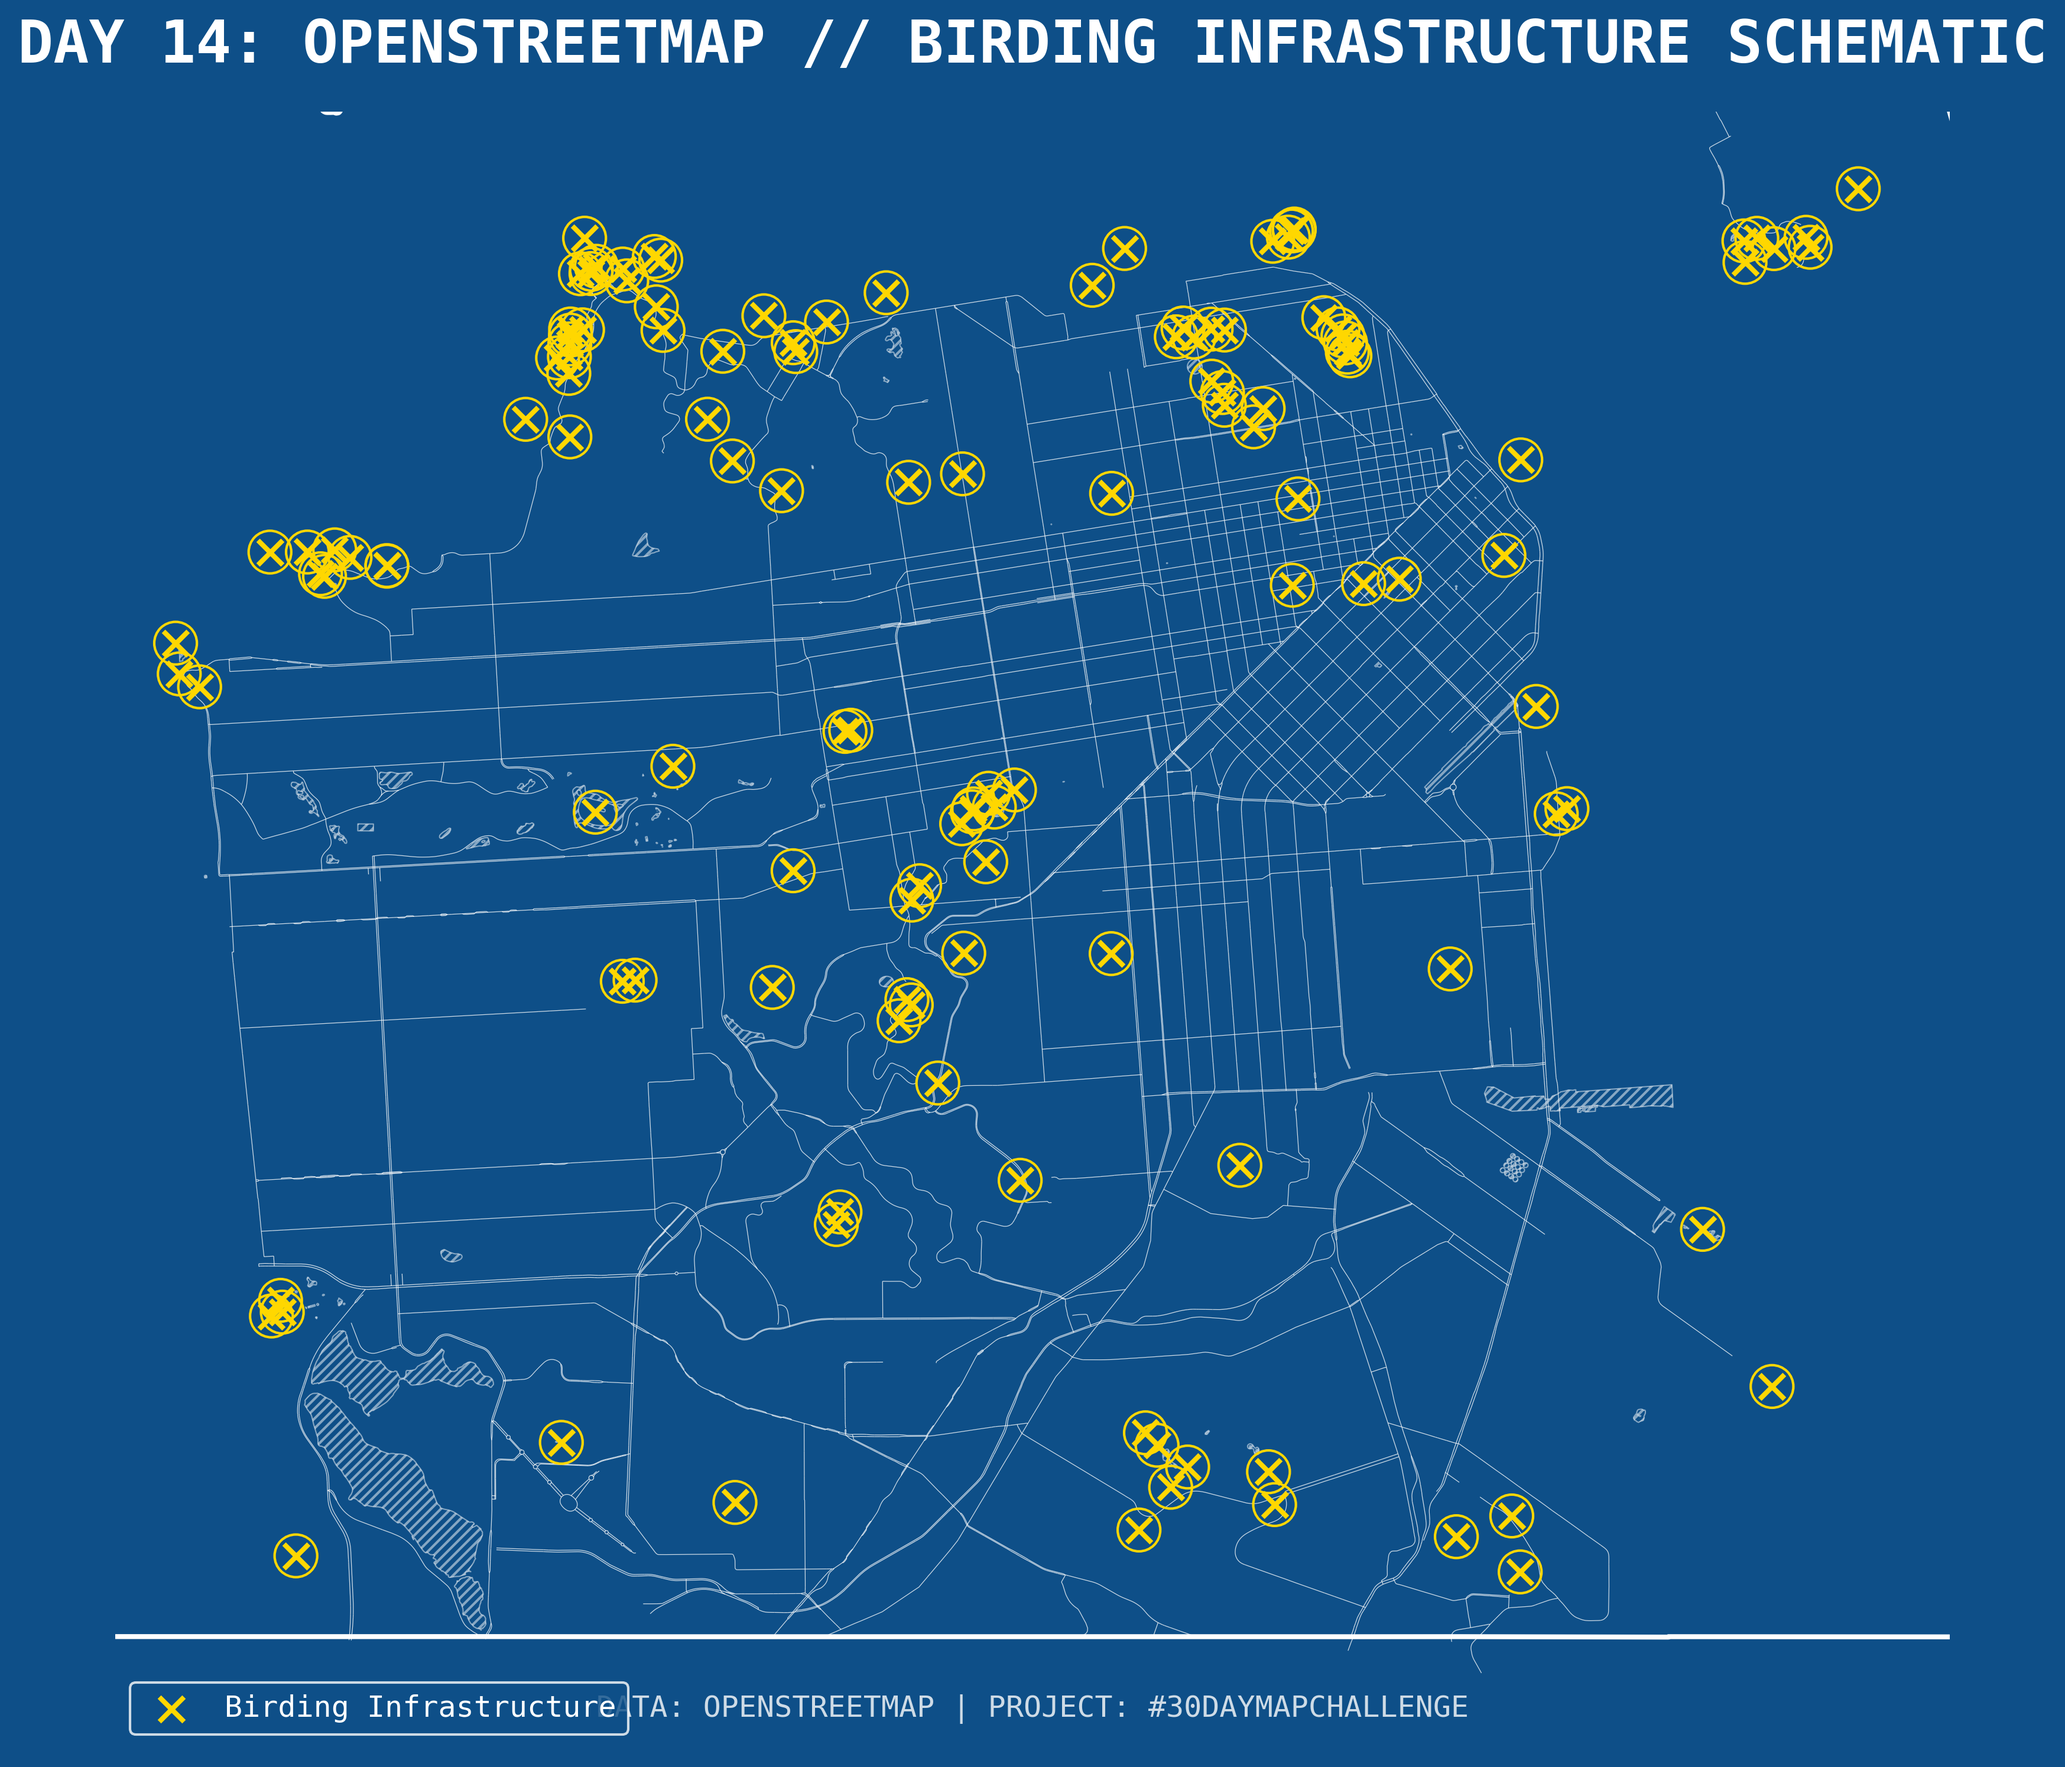
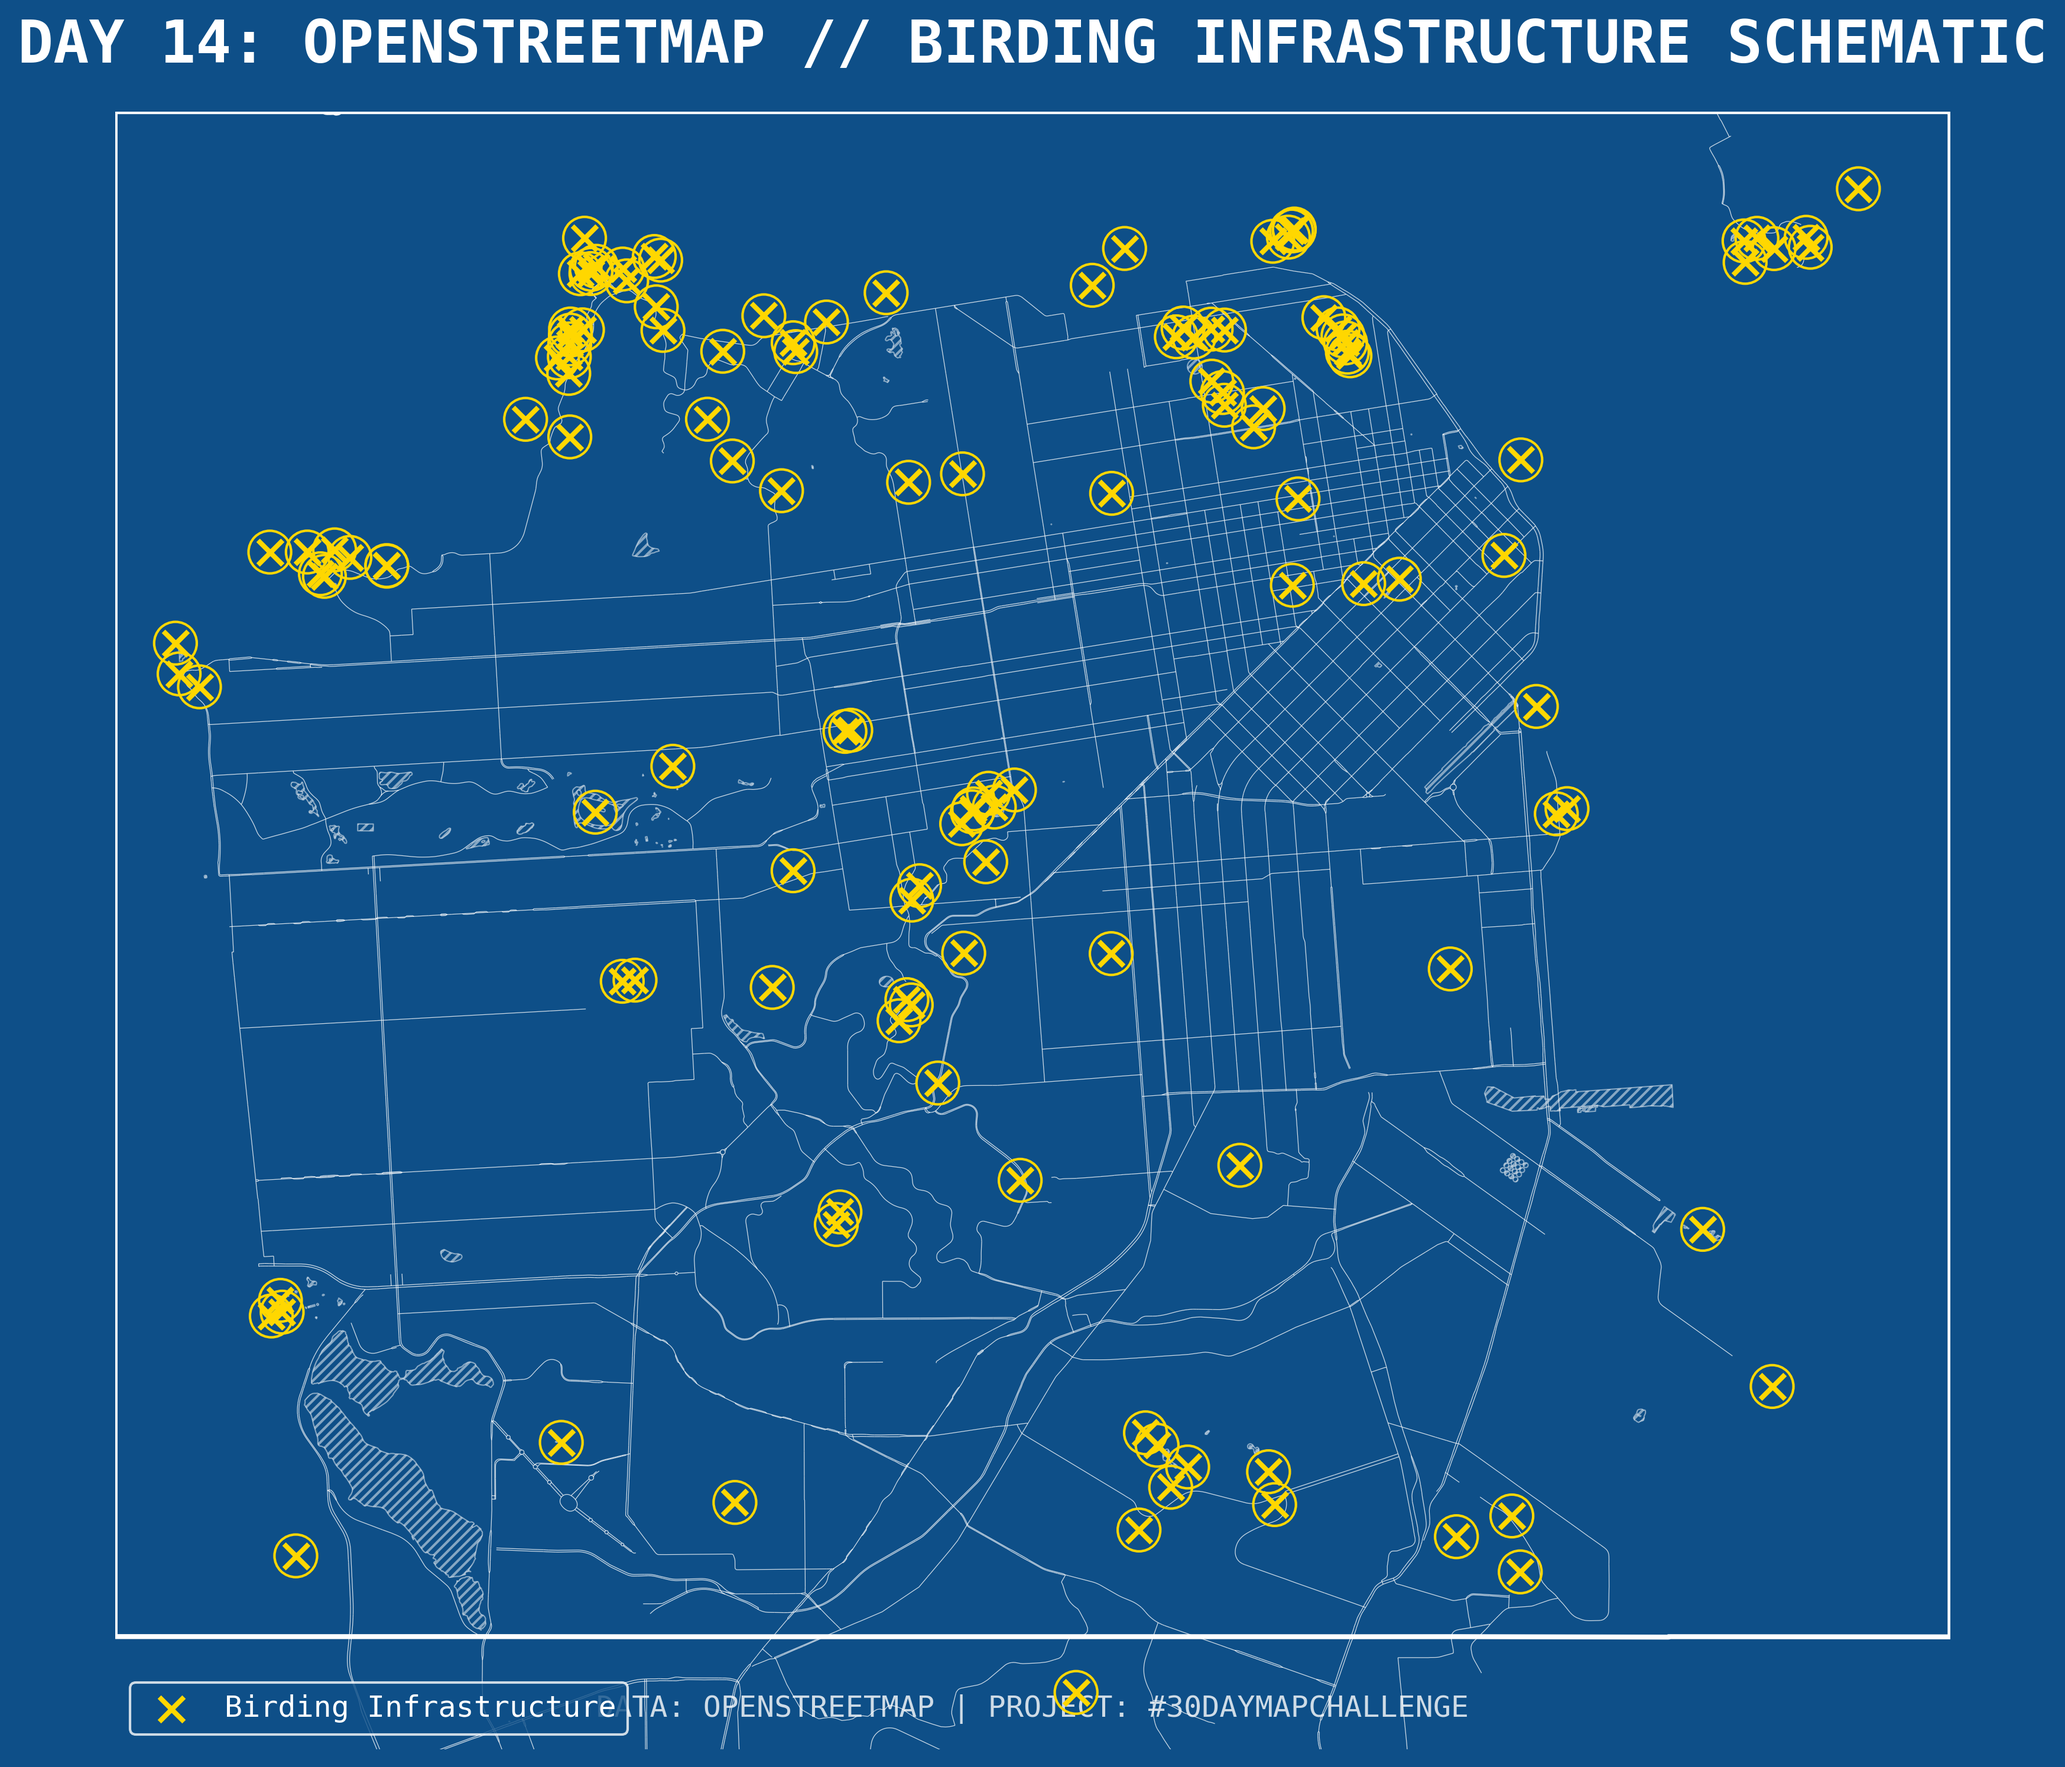
Fix osmnx bounding box to crop out Farallon Islands in Day 13 and 14 maps

Changed region(s): [[0.4991, 0.9328, 0.5303, 0.9639]]

diff --git a/2025/day_14/code/plot_bird_osm.py b/2025/day_14/code/plot_bird_osm.py
@@ -1,10 +1,14 @@
 import osmnx as ox
 import matplotlib.pyplot as plt
 import os
+import geopandas as gpd
+from shapely.geometry import box
 
 def main():
     print("Fetching bird-related features from OSM in SF...")
-    location = "San Francisco, California, USA"
+    
+    # SF Peninsula Bounding Box (left, bottom, right, top)
+    bbox = (-122.52, 37.70, -122.35, 37.82)
     
     tags = {
         'leisure': 'bird_hide',
@@ -13,13 +17,16 @@ def main():
         'natural': 'nest'
     }
     
-    gdf = ox.features_from_place(location, tags=tags)
+    gdf = ox.features_from_bbox(bbox, tags=tags)
     gdf['centroid'] = gdf.geometry.centroid
     
     print("Fetching blueprint base layers...")
-    water = ox.features_from_place(location, tags={'natural': 'water', 'bay': True})
-    roads = ox.features_from_place(location, tags={'highway': ['primary', 'secondary', 'tertiary']})
+    water = ox.features_from_bbox(bbox, tags={'natural': 'water', 'bay': True})
+    roads = ox.features_from_bbox(bbox, tags={'highway': ['primary', 'secondary', 'tertiary']})
+    
+    location = "San Francisco, California, USA"
     city = ox.geocode_to_gdf(location)
+    city = gpd.clip(city, box(*bbox))
     
     print("Plotting Blueprint style...")
     fig, ax = plt.subplots(figsize=(15, 12))

diff --git a/2025/day_13/code/plot_quick_birds.py b/2025/day_13/code/plot_quick_birds.py
@@ -28,6 +28,11 @@ def main():
     location = "San Francisco, California, USA"
     city = ox.geocode_to_gdf(location)
     
+    # Clip city to remove Farallon Islands and fix aspect ratio
+    from shapely.geometry import box
+    bbox = box(-122.52, 37.70, -122.35, 37.82)
+    city = gpd.clip(city, bbox)
+    
     top_5 = gdf['species'].value_counts().head(5).index.tolist()
     
     print("Plotting small multiples...")
